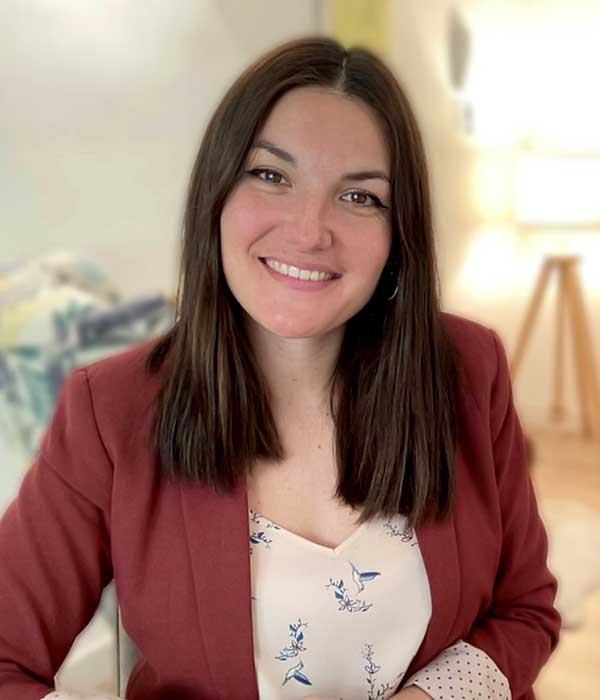
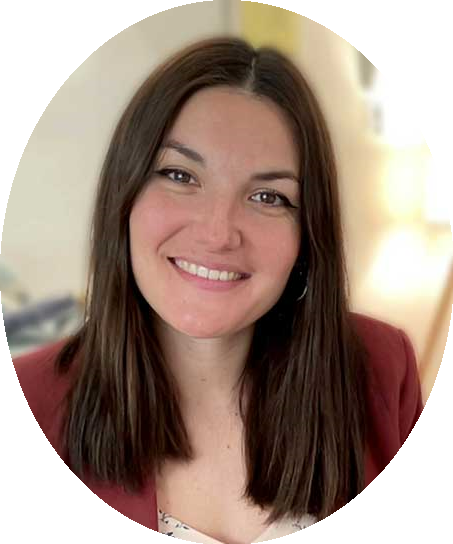
pull de carga  interfaz inicial
carga de los psícologos en la interfaz inicial por medio de fragment

diff --git a/src/main/java/org/example/proyectotfg/controllers/MainController.java b/src/main/java/org/example/proyectotfg/controllers/MainController.java
@@ -121,7 +121,6 @@ public class MainController implements Mediator, MediatorAcceso, MediatorProfile
 
     @Override
     public void haciaAtras() {
-
     }
     /*=======================================================================================================
      * ==========================================HACER REGISTRO =============================================*/
@@ -257,34 +256,34 @@ public class MainController implements Mediator, MediatorAcceso, MediatorProfile
     }
 
     @Override
-    public Node initializeProfessionals(List<ProfessionalUser> professionalUsers) throws NonexistingUser {
+    public Parent initializeProfessionals(List<ProfessionalUser> professionalUsers) throws NonexistingUser {
         HBox contenedorHBox2 = new HBox(6);
         if (professionalUsers != null) {
             contenedorHBox2.setAlignment(Pos.CENTER);
             contenedorHBox2.setMaxWidth(100);
             contenedorHBox2.setMaxHeight(130);
             try {
+                int imageIndex = 1; // Inicializa el índice de la imagen
+                int totalImages = 6; // Total de imágenes disponibles
                 for (ProfessionalUser us : professionalUsers) {
                     FXMLLoader fxmlLoader = new FXMLLoader(getClass().getResource("/org/example/proyectotfg/fragment-servicios.fxml"));
                     Node fragment = fxmlLoader.load();
                     ControllerFragmentServicios controller = fxmlLoader.getController();
-                    controller.setData(String.valueOf(us.getNames()), String.valueOf(us.getSpecialty()));
+                    //cargar imagen
+                    String imagePath = String.format("/org/example/proyectotfg/imgUsuario/doctor%d.png", imageIndex);
+                    imageIndex = (imageIndex % totalImages) + 1;
+
+                    controller.setData(String.valueOf(us.getNames()), String.valueOf(imagePath));
                     contenedorHBox2.getChildren().add(fragment);
                 }
 
-                // Envolver el HBox en un ScrollPane
-                ScrollPane scrollPane = new ScrollPane(contenedorHBox2);
-                scrollPane.setFitToWidth(true); // Ajustar el ancho del contenido al ancho del ScrollPane
-                scrollPane.setFitToHeight(true); // Ajustar la altura del contenido al alto del ScrollPane
-                scrollPane.setHbarPolicy(ScrollPane.ScrollBarPolicy.AS_NEEDED); // Mostrar la barra de desplazamiento horizontal según sea necesario
-                scrollPane.setVbarPolicy(ScrollPane.ScrollBarPolicy.AS_NEEDED); // Mostrar la barra de desplazamiento vertical según sea necesario
 
-                AnchorPane.setTopAnchor(scrollPane, 0.0);
-                AnchorPane.setRightAnchor(scrollPane, 0.0);
-                AnchorPane.setBottomAnchor(scrollPane, 0.0);
-                AnchorPane.setLeftAnchor(scrollPane, 0.0);
+                AnchorPane.setTopAnchor(contenedorHBox2, 0.0);
+                AnchorPane.setRightAnchor(contenedorHBox2, 0.0);
+                AnchorPane.setBottomAnchor(contenedorHBox2, 0.0);
+                AnchorPane.setLeftAnchor(contenedorHBox2, 0.0);
 
-                return scrollPane;
+                return contenedorHBox2;
 
             } catch (IOException ioe) {
                 throw new RuntimeException("Error cargando el fragmento de servicio", ioe);
@@ -314,6 +313,8 @@ public class MainController implements Mediator, MediatorAcceso, MediatorProfile
     public void regresar() {
         try {
             loadView("/org/example/proyectotfg/initial-interface.fxml");
+            loadInterfazInicial();
+            controllerActual.setMediator(this);
         } catch (ThereIsNoView e) {
             showError("Error", e.getMessage());
         }

diff --git a/src/main/java/org/example/proyectotfg/controllers/InitialInterfaceController.java b/src/main/java/org/example/proyectotfg/controllers/InitialInterfaceController.java
@@ -79,7 +79,7 @@ public class InitialInterfaceController implements ViewController, Initializable
         Parent listaServicios= mediator.initializeServicios(servicios);
         contenedorListaServicios.getChildren().add(listaServicios);
         try {
-            Node professionalUserBox = mediator.initializeProfessionals(usuariosEspecificos);
+            Parent professionalUserBox = mediator.initializeProfessionals(usuariosEspecificos);
             contenedorListaPersonas.setContent(professionalUserBox);
         } catch (NonexistingUser e) {
 

diff --git a/src/main/java/org/example/proyectotfg/mediators/MediatorFirstScreen.java b/src/main/java/org/example/proyectotfg/mediators/MediatorFirstScreen.java
@@ -24,7 +24,7 @@ public interface MediatorFirstScreen {
 
     Parent initializeServicios(HashMap<String, String> servicios);
 
-    Node initializeProfessionals(List<ProfessionalUser> professionalUsers) throws NonexistingUser;
+    Parent initializeProfessionals(List<ProfessionalUser> professionalUsers) throws NonexistingUser;
 
     void openCalendarView();
 }
